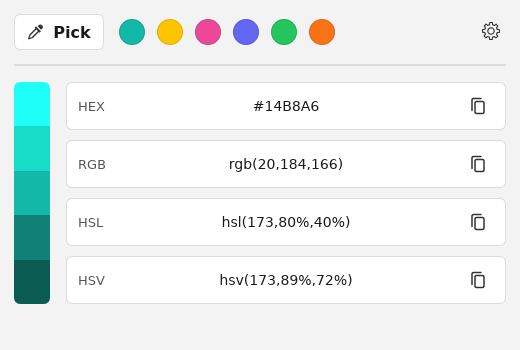
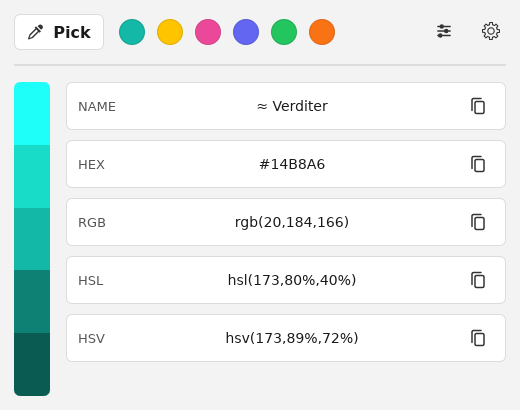
Color name license and readme update

diff --git a/README.md b/README.md
@@ -4,7 +4,7 @@
 
 **A fast, system-wide color picker for Linux, inspired by Microsoft PowerToys.**
 
-Pick any pixel on your screen, see it magnified, and copy it as HEX, RGB, HSL or HSV.<br>
+Pick any pixel on your screen, see it magnified, see its name, and copy it in the format you need.<br>
 Works on **Wayland and X11**, built to feel at home on **KDE Plasma**.
 
 [![Latest release](https://img.shields.io/github/v/release/Mujtaba1i/Archtoys?label=release)](https://github.com/Mujtaba1i/Archtoys/releases/latest)
@@ -22,11 +22,12 @@ Works on **Wayland and X11**, built to feel at home on **KDE Plasma**.
 
 - **Pixel magnifier.** While picking, a card next to your cursor shows the surrounding pixels 10× larger, with the exact pixel you'll get outlined. No more guessing on high-resolution screens.
 - **Live preview, on Wayland too.** The color updates as you move the mouse. On Wayland, Archtoys takes one screenshot and lets you pick from it ("freeze frame"), so you get the same preview and magnifier as on X11.
-- **Four formats, always in sync.** HEX, RGB, HSL and HSV, each with a copy button. You can also *type* a color into any field, and the other three convert instantly.
+- **Color names.** Every color gets a name: the official CSS name when there is one ("Hot Pink"), otherwise the closest of about 32,000 named colors ("≈ Barbie Pink"). Works offline.
+- **The formats you need, in your order.** HEX, RGB, HSL and HSV, plus CMYK, HSLA, OKLCH and OKLab (off by default). Turn any of them on or off and reorder them with the sliders button next to ⚙. You can also *type* a color into any field, and the others convert instantly.
 - **Shades at a glance.** A bar of lighter and darker variations of your color. Click one to use it.
 - **Color history.** Every color you pick is kept for quick access, even after a restart.
 - **Global hotkey.** Start picking from anywhere (default `Ctrl+Super+C`). On Wayland it uses your desktop's own shortcut system.
-- **Auto copy.** Optionally copy the color the moment you click, without opening the window.
+- **Auto copy.** Optionally copy the color the moment you click, without opening the window. It copies your **first** format (skipping the name), and that row is highlighted in the picked color, so you always know what you'll get.
 - **Cancel anytime.** `Esc` or right-click cancels a pick and restores the previous color.
 - **Stays out of your way.** System tray icon, run on startup, minimize on pick, light and dark themes.
 
@@ -35,6 +36,8 @@ Works on **Wayland and X11**, built to feel at home on **KDE Plasma**.
 | Light | Dark |
 |:---:|:---:|
 | ![Archtoys main window, light theme](docs/screenshots/main-light.png) | ![Archtoys main window, dark theme](docs/screenshots/main-dark.png) |
+
+![The Customize formats panel: turn formats on or off and change their order](docs/screenshots/formats.png)
 
 </div>
 
@@ -86,6 +89,7 @@ The AppImage runs on any distribution from Ubuntu 22.04 onwards, or anything equ
 | Cancel | `Esc` or right-click (the previous color comes back) |
 | Copy a value | Click the copy icon next to HEX, RGB, HSL or HSV |
 | Enter a color by hand | Type into any field and press `Enter` |
+| Choose and reorder formats | The sliders button, next to ⚙ |
 | Use a lighter/darker shade | Click it in the shade bar |
 | Reuse an old color | Click it in the history row |
 | Change the hotkey, theme, startup… | The ⚙ settings button (on Wayland, the hotkey opens your desktop's shortcut settings) |
@@ -168,6 +172,8 @@ cargo run --release --locked
 src/
 ├── main.rs          startup and wiring
 ├── color.rs         color formats, parsing, shades (unit-tested)
+├── formats.rs       which formats are shown, their order, Auto Copy
+├── names.rs         color names (CSS names + data/colornames.csv)
 ├── config.rs        settings and autostart
 ├── ui_state.rs      updating the main window
 ├── tray.rs          tray icon
@@ -200,6 +206,8 @@ Bug reports, ideas and pull requests are all welcome.
 ## Acknowledgements
 
 Inspired by the Color Picker in [Microsoft PowerToys](https://github.com/microsoft/PowerToys). Archtoys is an independent project and is not affiliated with or endorsed by Microsoft.
+
+Color names come from [meodai/color-names](https://github.com/meodai/color-names) by David Aerne, used under the MIT License (see [`data/colornames-LICENSE.txt`](data/colornames-LICENSE.txt)).
 
 ## License
 
